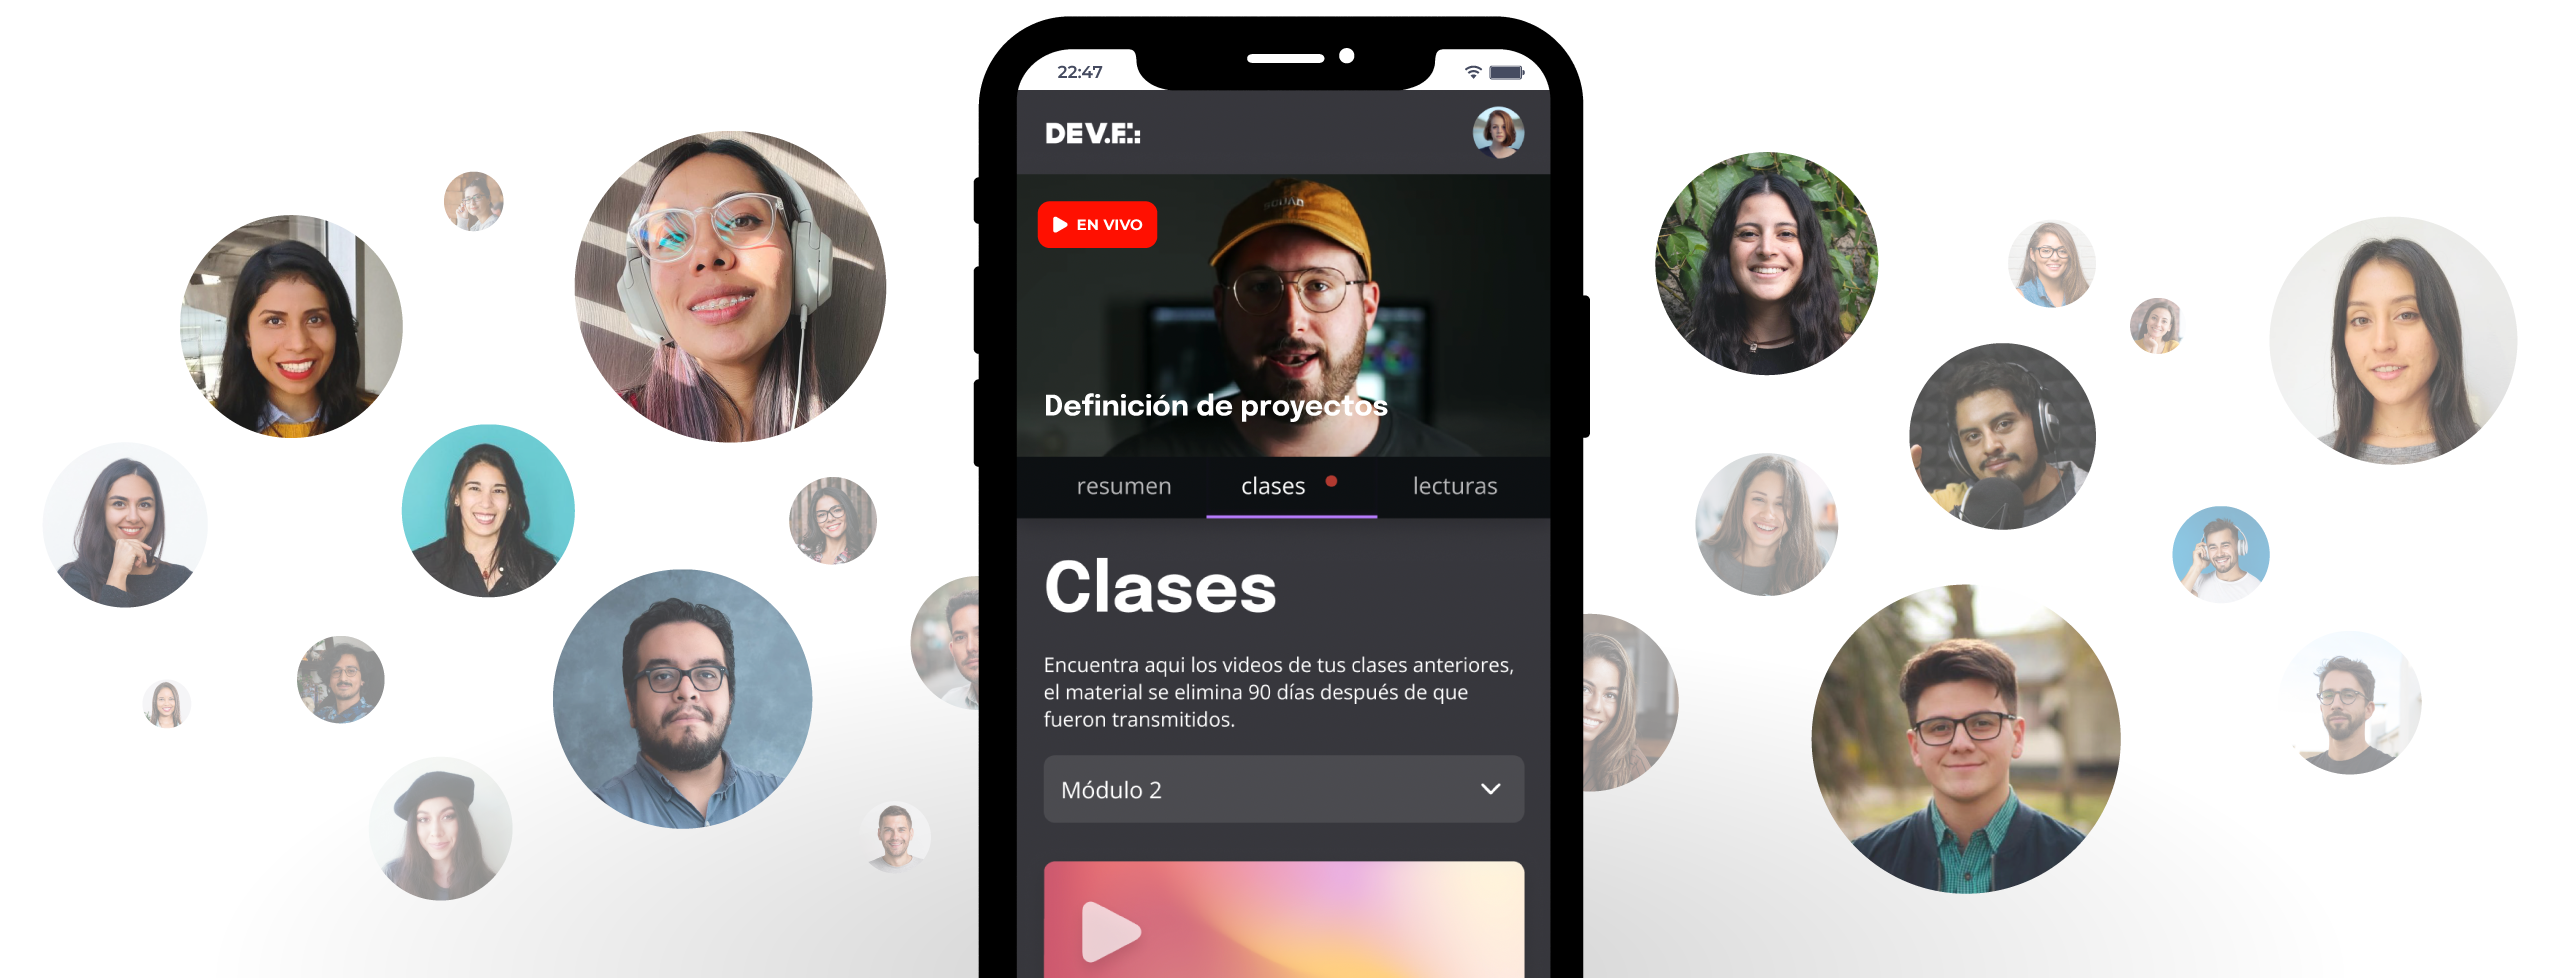
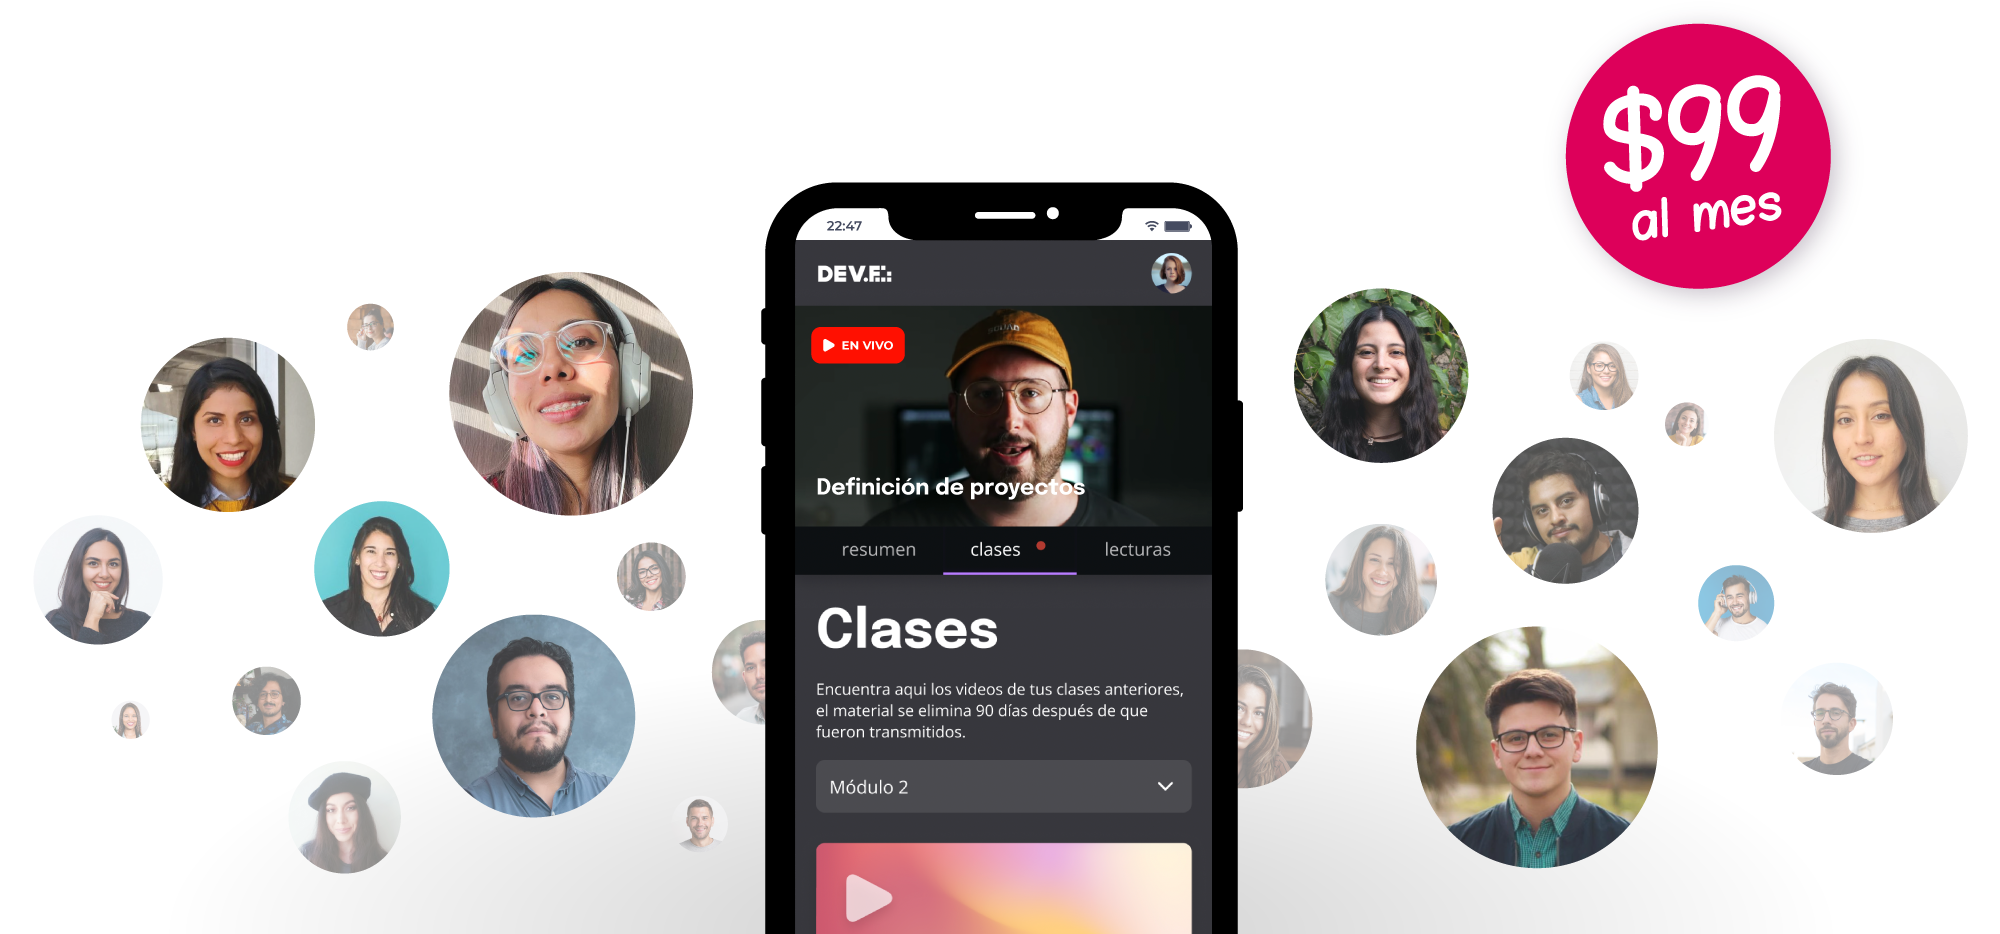
Landing USA V.1.0
Primera revisión

diff --git a/index.html b/index.html
@@ -19,41 +19,60 @@
 
 <!-- HEADER -->
     <header id="header" >
-        <div class="container d-flex justify-content-between align-items-center py-3">
-            <div class="logo">
-                <img src="imgs/devf-white.webp" width="70px">
-            </div>
+        <div class="container d-flex justify-content-between align-items-end py-3">
+            
             <div class="actions">
-                <a class="btn almes"><strong class="handwrite">Solo $49 al mes</strong></a>
+                <a class="btn almes"><strong class="handwrite">Solo $99 al mes</strong></a>
             </div>
         </div>
     </header>
 
 <!-- SHOWCASE -->
-    <section id="showcase" class="d-flex align-items-center">
+    <section id="showcase" class="d-flex align-items-center pb-5">
         <div class="container py-5">
             <div class="row align-items-center justify-content-center text-center">
                 <div class="col-12">
+                    <img src="imgs/devf-white.webp" class="img-fluid mb-4" width="120px">
                     <h1 class="text-light pb-3">Aprende <strong class="hackeranda handwrite">Coding </strong></h1>
-                    <h3 class="text-light">La escuela <strong class="hackeranda">más grande</strong> de LATAM llega a USA</h3>
+                    
+                    <h3 class="text-light">La escuela <strong class="hackeranda">más premiada</strong> de LATAM llega a USA</h3>
                 </div>
                 <div class="col-12 col-sm-8 col-md-7">                  
-                    <p>Con más de 12,000 alumnos egresados de nuestros programas desde 2015, DEV.F es la comunidad de aprendizaje tecnológico más grande de la región.</p>
+                    <p>Con más de 12,000 alumnos egresados de nuestros programas desde 2015, DEV.F es la comunidad de aprendizaje tecnológico más grande de la región.<br /><br /><small>Por nuestra llegada USA, la sesión será dirigida por nuestro <b>co-founder Manuel "Eme" Morato.</b></small></p>
                     <a class="btn btn-light mt-4 registro">Regístrate a la sesión informativa</a>
                 </div>
                
             </div>
 
-            <div class="row d-flex align-items-center justify-content-center mt-5 align-self-end">
-                <div class="col-12 mt-5">
-                    <h6 class="text-center pb-3 text-light">Las empresas más importantes han confiado en nuestros egresados</h6>  
-                    <div class="row justify-content-center">          
-                        <div class="products-ribons col-12">
-                            <img class="move-left" src="imgs/empresas-final.png">                
+
+            <div class="row text-center text-md-start mt-5 pb-5">
+                <div id="premios" class="col-12"> 
+                    <div class="rounded-3 pt-4 px-4">
+                        
+                        <div class="row mt-5">
+                            <div class="award col-6 col-md-3 mb-3">
+                                <a href="https://www.iadb.org/es/noticias/el-bid-anuncia-las-propuestas-seleccionadas-de-bootcamps-para-fans-de-la-tecnologia?fbclid=IwAR1vDwpDnSFhNZ0Fu_oXalLPLC5M2p4IzHbZ5v4Dp3iUY52UAxAXtqVVWNY" target="_blank"><img src="imgs/logo-bid-lab-blanco.png" class="img-fluid mb-2"></a>
+                                <p>Ganadores del primer lugar en el Desafío de Bootcamps en América Latina del BID Lab en 2020.</p>
+                            </div>
+                            <div class="award col-6 col-md-3 mb-3">
+                                <img src="imgs/logo-google-launchpad-accelerator-blanco.png" class="img-fluid mb-2">
+                                <p>Una de las 9 Startups seleccionadas por el Google Launchpad Accelerator de LATAM en el 2019.</p>
+                            </div>
+                            <div class="award col-6 col-md-3 mb-3">
+                                <a href="https://www.forbes.com.mx/30-promesas-2018-hackers-para-transformar-a-la-sociedad/"><img src="imgs/logo-forbes-blanco.png" class="img-fluid mb-2"></a>
+                                <p>Reconocidos por Forbes como una de las 30 empresas promesa de México en el 2018.</p>
+                            </div>
+                            <div class="award col-6 col-md-3 mb-3">
+                                <img src="imgs/logo-redbox.png" class="img-fluid mb-2">
+                                <p>Reconocidos con el Premio Redbox como la Startup más innovadora de México en el 2017.</p>
+                            </div>
                         </div>
                     </div>
                 </div>
+                
             </div>
+
+            
 
         </div>
     </section>
@@ -70,7 +89,7 @@
     <div class="container">
         <div class="row">
             <div class="col-12 text-center text-light">
-                <div class="programa-inner pt-3 px-4 rounded-3 justify-content-center">
+                <div class="programa-inner pt-5 px-4 rounded-3 justify-content-center">
                     <h4 class="text-light py-3 fw-bold">Con nuestro programa aprendes todo lo necesario para convertirte en un Full Stack Developer</h4>
                     <p class="col-12 col-sm-8 align-self-center mx-auto">Nuestras clases en vivo cuentan con un sensei por cada 25 alumnos, así nos aseguramos de que puedas preguntar todo lo que necesites para entender hasta los temas más complejos</p>
                     <img src="imgs/nuestro-programa.png" class="img-fluid">
@@ -89,7 +108,7 @@
     <div class="container">
         <div class="row">
             <div class="col-12">
-                <h3 class="text-light py-3 fw-bold hack-gradient-03">DEV.F ha cambiando la realidad de miles de personas a través de la educación.</h3>
+                <h3 class="text-light py-3 fw-bold hack-gradient-03">DEV.F ha cambiando la realidad de miles de personas a través de la educación, hoy es momento de hacerlo con nuestros paisanos en Estados Unidos.</h3>
             </div>
         </div>
         <div class="row">
@@ -142,33 +161,17 @@
 
 <!-- PREMIOS -->
 
-<section id="premios" class="py-4">
+<section id="empresas" class="py-4">
     <div class="container">
-        <div class="row text-center text-md-start">
-            <div class="col-12"> 
-                <div class="premios-inner rounded-3 bg-light p-4">
-                    <h4 class="text-center fw-bold mb-4">DEV.F es la escuela más premiada de Latinoamérica</h4>
-                    <div class="row">
-                        <div class="award col-6 col-md-3 mb-3">
-                            <a href="https://www.iadb.org/es/noticias/el-bid-anuncia-las-propuestas-seleccionadas-de-bootcamps-para-fans-de-la-tecnologia?fbclid=IwAR1vDwpDnSFhNZ0Fu_oXalLPLC5M2p4IzHbZ5v4Dp3iUY52UAxAXtqVVWNY" target="_blank"><img src="imgs/animacion-BID-Lab.gif" class="img-fluid mb-2"></a>
-                            <p>Ganadores del primer lugar en el Desafío de Bootcamps en América Latina del BID Lab en 2020.</p>
-                        </div>
-                        <div class="award col-6 col-md-3 mb-3">
-                            <img src="imgs/logo-google-launchpad-accelerator.png" class="img-fluid mb-2">
-                            <p>Una de las 9 Startups seleccionadas por el Google Launchpad Accelerator de LATAM en el 2019.</p>
-                        </div>
-                        <div class="award col-6 col-md-3 mb-3">
-                            <a href="https://www.forbes.com.mx/30-promesas-2018-hackers-para-transformar-a-la-sociedad/"><img src="imgs/logo-forbes.jpg" class="img-fluid mb-2"></a>
-                            <p">Reconocidos por Forbes como una de las 30 empresas promesa de México en el 2018.</p>
-                        </div>
-                        <div class="award col-6 col-md-3 mb-3">
-                            <img src="imgs/logo-redbox.jpg" class="img-fluid mb-2">
-                            <p>Reconocidos con el Premio Redbox como la Startup más innovadora de México en el 2017.</p>
-                        </div>
+        <div class="row d-flex align-items-center justify-content-center align-self-end">
+            <div class="col-12">
+                <h4 class="text-center pb-3 text-light">Las empresas más importantes han confiado en nuestros egresados</h4>  
+                <div class="row justify-content-center">          
+                    <div class="products-ribons col-12">
+                        <img class="move-left" src="imgs/empresas.png">                
                     </div>
                 </div>
             </div>
-            
         </div>
     </div>
 </section>
@@ -181,7 +184,7 @@
     <div class="container">
         <div class="row justify-content-center">
             <div class="col-12">
-            <div class="garantia-inner rounded-3 p-4">
+            <div class="garantia-inner rounded-3 p-4 pt-5">
                 <div class="text-start text-lg-center">
                     <img src="imgs/devf-white.webp" width="90px">
                     <h4 class="text-light pt-4 pb-4 fw-bold hack-gradient-05">Un sistema educativo con garantía de éxito</h4>
@@ -202,11 +205,11 @@
                         </tr>
                         <tr class="border-bottom">
                             <td colspan="3" class="descripcion pb-4">
-                                Te conectamos con las principales empresas tecnológicas de México y Latinoamerica, que están en constante búsqueda de talento tech.
+                                Te conectamos con las principales empresas tecnológicas, que están en constante búsqueda de talento tech.
                             </td>
                         </tr>
                         <tr>
-                            <th class="ventaja pt-3">Empleo en tecnología</th>
+                            <th class="ventaja pt-3">Empleo de calidad</th>
                             <td align="center"><svg viewBox="0 0 32 32" xmlns="http://www.w3.org/2000/svg" style="display:block;fill:none;height:24px;width:24px;stroke:#00A506;stroke-width:5.333333333333333;overflow:visible" aria-label="Incluido en DEV.F" role="img" focusable="false"><path fill="none" d="m4 16.5 8 8 16-16"></path></svg></td>
                             <td align="center"><svg viewBox="0 0 32 32" xmlns="http://www.w3.org/2000/svg" style="display:block;fill:none;height:24px;width:24px;stroke:#E12C32;stroke-width:5.333333333333333;overflow:visible" aria-label="No incluido en la competencia" role="img" focusable="false"><path d="m6 6 20 20"></path><path d="m26 6-20 20"></path></svg></td>
                         </tr>
@@ -216,13 +219,23 @@
                             </td>
                         </tr>
                         <tr>
-                            <th class="ventaja pt-3">Aprender hackeando</th>
+                            <th class="ventaja pt-3">Aprende construyendo</th>
                             <td align="center"><svg viewBox="0 0 32 32" xmlns="http://www.w3.org/2000/svg" style="display:block;fill:none;height:24px;width:24px;stroke:#00A506;stroke-width:5.333333333333333;overflow:visible" aria-label="Incluido en DEV.F" role="img" focusable="false"><path fill="none" d="m4 16.5 8 8 16-16"></path></svg></td>
                             <td align="center"><svg viewBox="0 0 32 32" xmlns="http://www.w3.org/2000/svg" style="display:block;fill:none;height:24px;width:24px;stroke:#E12C32;stroke-width:5.333333333333333;overflow:visible" aria-label="No incluido en la competencia" role="img" focusable="false"><path d="m6 6 20 20"></path><path d="m26 6-20 20"></path></svg></td>
                         </tr>
                         <tr class="border-bottom">
                             <td colspan="3" class="descripcion pb-4">
                                 DEV.F te prepara para tu empleo en tecnología con pruebas reales. Así aprendes haciendo
+                            </td>
+                        </tr>
+                        <tr>
+                            <th class="ventaja pt-3">Bootcamp part-time</th>
+                            <td align="center"><svg viewBox="0 0 32 32" xmlns="http://www.w3.org/2000/svg" style="display:block;fill:none;height:24px;width:24px;stroke:#00A506;stroke-width:5.333333333333333;overflow:visible" aria-label="Incluido en DEV.F" role="img" focusable="false"><path fill="none" d="m4 16.5 8 8 16-16"></path></svg></td>
+                            <td align="center"><svg viewBox="0 0 32 32" xmlns="http://www.w3.org/2000/svg" style="display:block;fill:none;height:24px;width:24px;stroke:#E12C32;stroke-width:5.333333333333333;overflow:visible" aria-label="No incluido en la competencia" role="img" focusable="false"><path d="m6 6 20 20"></path><path d="m26 6-20 20"></path></svg></td>
+                        </tr>
+                        <tr class="border-bottom">
+                            <td colspan="3" class="descripcion pb-4">
+                                Te permite seguir estudiando y trabajando
                             </td>
                         </tr>
                         <tr class="border-bottom">
@@ -287,33 +300,40 @@
 
 <section id="logros" class="py-3">
     <div class="container">
-        <div class="row d-flex align-items-stretch">
-            <div class="col">
+        <div class="row d-flex align-items-stretch justify-content-start justify-content-lg-center">
+            <div class="col-6 col-lg-2">
+                <div class="d-flex align-items-start flex-column p-4 h-100">
+                    <div>&nbsp;</div>
+                    <div class="cantidad hack-gradient-01">8+</div>
+                    <div><strong>años de experiencia</strong></div>
+                </div>
+            </div>  
+            <div class="col-6 col-lg-2">
                 <div class="d-flex align-items-start flex-column p-4 h-100">
                     <div>más de</div>
                     <div class="cantidad hack-gradient-01">12k</div>
                     <div><strong>estudiantes egresados</strong></div>
                 </div>
             </div>
-            <div class="col">
+            <div class="col-6 col-lg-2">
                 <div class="d-flex align-items-start flex-column p-4 h-100">
                     <div>en más de</div>
                     <div class="cantidad hack-gradient-01">50</div>
                     <div><strong>ciudades de LATAM</strong></div>
                 </div>
             </div>
-            <div class="col">
+            <div class="col-6 col-lg-2">
                 <div class="d-flex align-items-start flex-column p-4 h-100">
                     <div>con más de</div>
                     <div class="cantidad hack-gradient-01">30</div>
                     <div><strong>startups fundadas por estudiantes</strong></div>
                 </div>
             </div>
-            <div class="col">
+            <div class="col-6 col-lg-2">
                 <div class="d-flex align-items-start flex-column p-4 h-100">
                     <div>y sobre el</div>
                     <div class="cantidad hack-gradient-01">80%</div>
-                    <div><strong>de empleabilidad en tecnologías</strong></div>
+                    <div><strong>de empleabilidad</strong></div>
                 </div>
             </div>     
         </div>

diff --git a/css/style.css b/css/style.css
@@ -54,7 +54,7 @@ h1, h2, h3 ,h4 ,h5 ,h6, .sueldo {
 /* BOTONES */
 
 .btn.almes {
-    background-color: #dd005a;
+    background-color: #8F37FF;
     font-size: 16px;
     padding: 5px 20px;
     color: #fff;
@@ -62,9 +62,10 @@ h1, h2, h3 ,h4 ,h5 ,h6, .sueldo {
 }
 
 .btn.registro {
-     background-color: transparent;
+     background-color: #dd005a;
+     border-color: #dd005a;
      font-size: 16px;
-     padding: 5px 20px;
+     padding: 8px 20px;
      color: #fff;
      border-radius: 40px;
  }
@@ -83,6 +84,10 @@ h1, h2, h3 ,h4 ,h5 ,h6, .sueldo {
 #showcase {
     background-color: #11111e;
     color: #fff;
+    background-image: url('../imgs/back-2.png');
+    background-repeat: no-repeat;
+    background-position: bottom;
+    background-size: cover;
 }
 
 
@@ -155,6 +160,7 @@ h1, h2, h3 ,h4 ,h5 ,h6, .sueldo {
 .programa-inner {
     background: rgb(215,118,255);
     background: linear-gradient(152deg, rgba(215,118,255,1) 0%, rgba(125,22,255,1) 100%);
+    margin-top: -100px;
 }
 
 
@@ -181,17 +187,20 @@ h1, h2, h3 ,h4 ,h5 ,h6, .sueldo {
 
 /* PREMIOS */
 
-#premios {
-    background-color: #11111e;
-}
 
-#premios .award {
-    font-size: 12px;
+#premios .award p {
+    font-size: 11px;
 }
 
 #premios .award img {
     height: 30px;
 }
+
+/* EMPRESAS */
+#empresas {
+    background-color: #11111e;
+}
+
 
 
 /* GARANTIA */
